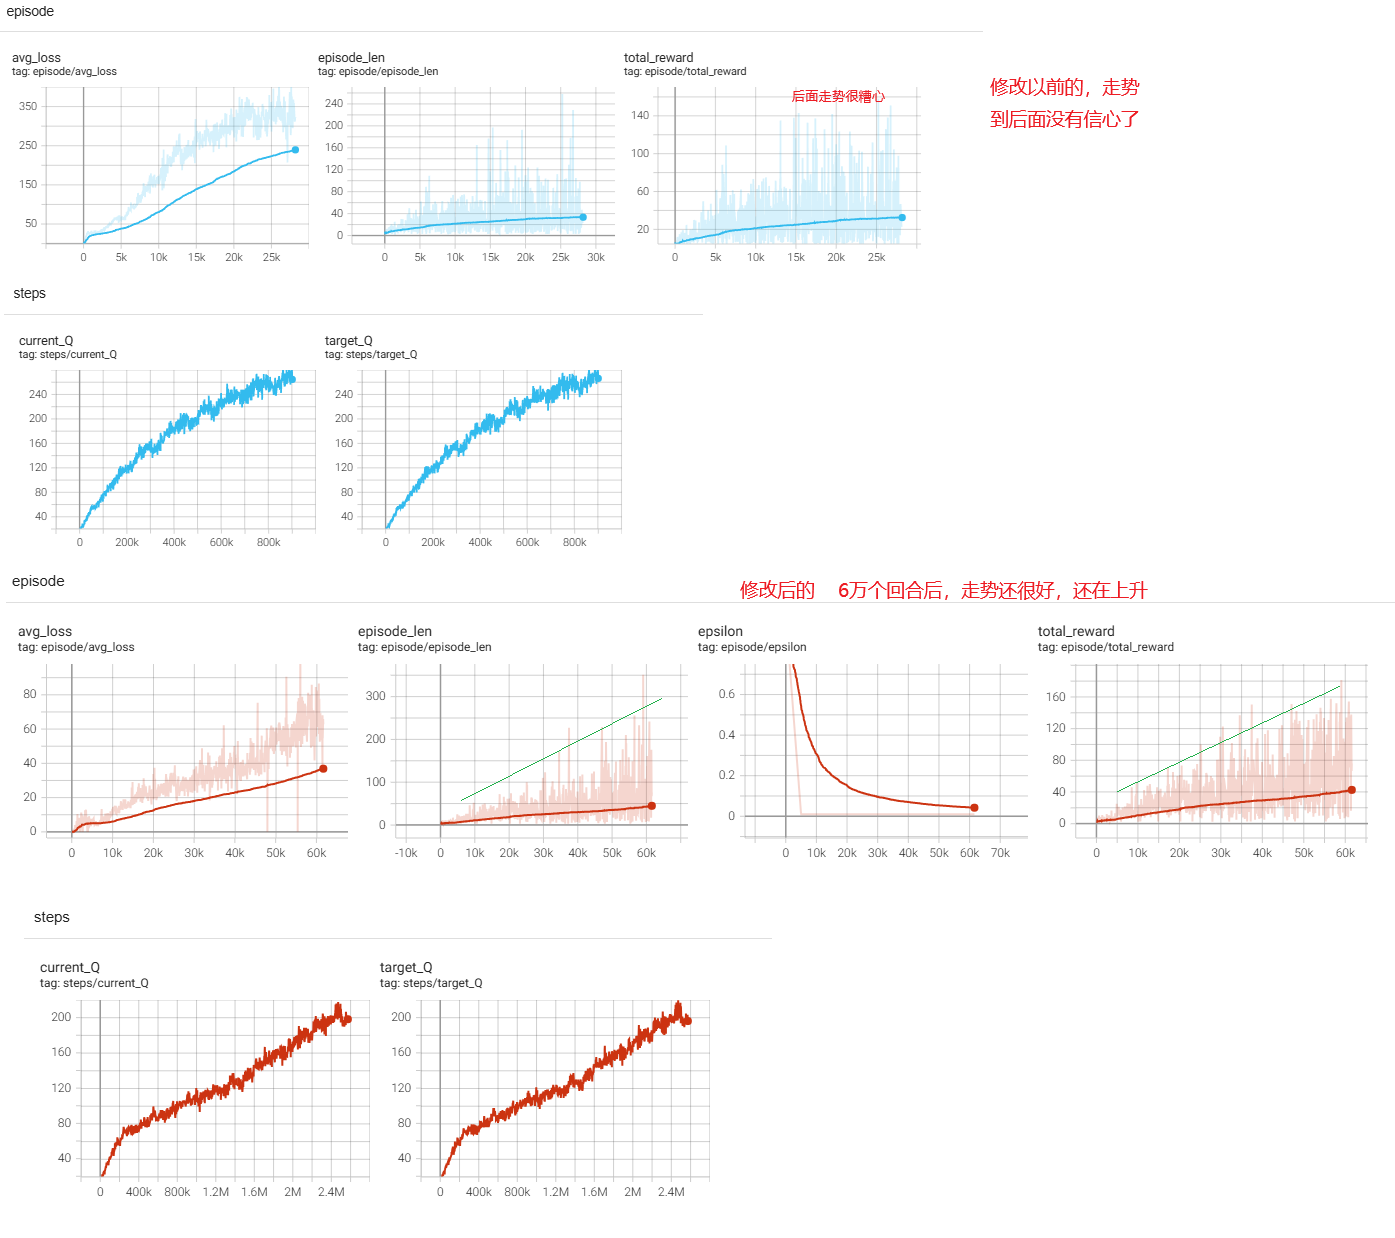
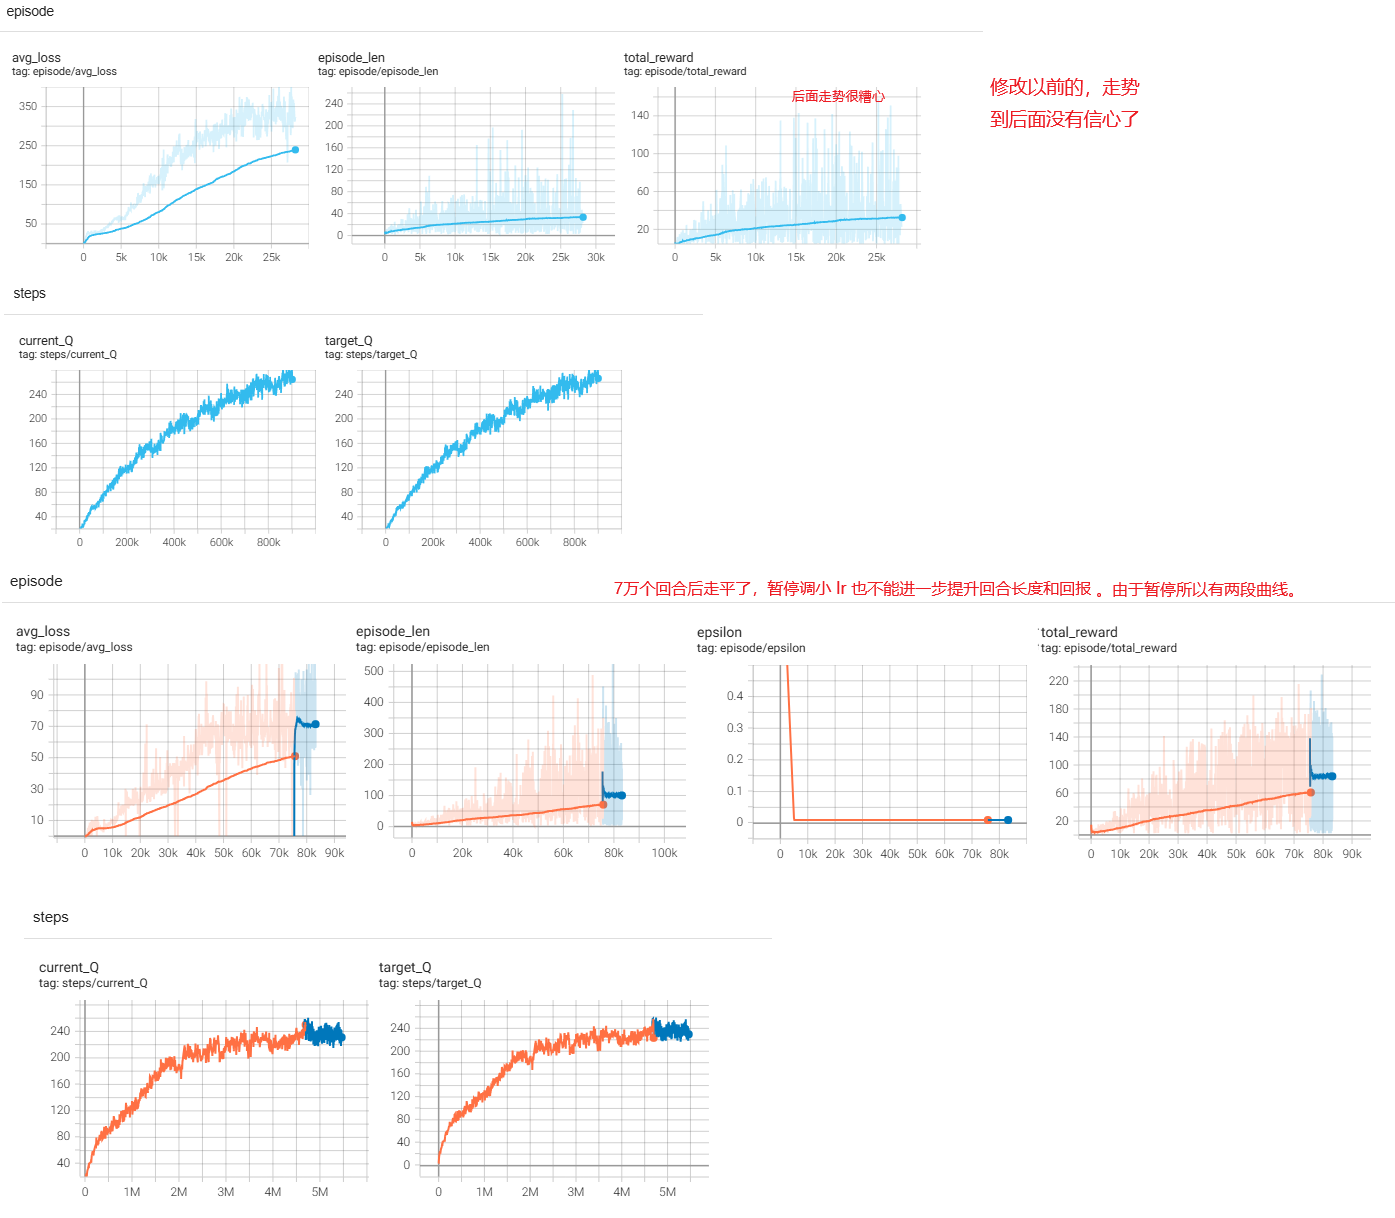
原始像素输入方式跑24小时的结果

diff --git a/强化学习入门.md b/强化学习入门.md
@@ -13411,7 +13411,9 @@ if __name__ == "__main__":
 4. 它buffer有一百万步大小，我的只有2万步（内存不够）
 5. batch size，它32，我128
 
-**采纳了上面的1/2/3，较原来有更好的走势，再继续训练应该能继续提升。时间关系我只训练到240万时间步，showcase的checkpoint平均回合回报为92.4。未经训练的模型（完全随机动作）的平均回合回报3.5。我认为到这一步算是在原始视觉像素输入方面成功实验了。**
+**采纳了上面的1/2/3，较原来有更好的走势。最后训练到550万步，后面回合长度/回报/Q值都走平了。**
+
+**showcase的checkpoint平均回合回报为92.4（也与训练曲线一致）。相比之下，未经训练的模型（完全随机动作）的平均回合回报3.5。我认为到这一步算是在原始视觉像素输入方面成功实验了。**
 
 ![image-20250501192009529](img/RL/image-20250501192009529.png)
 
